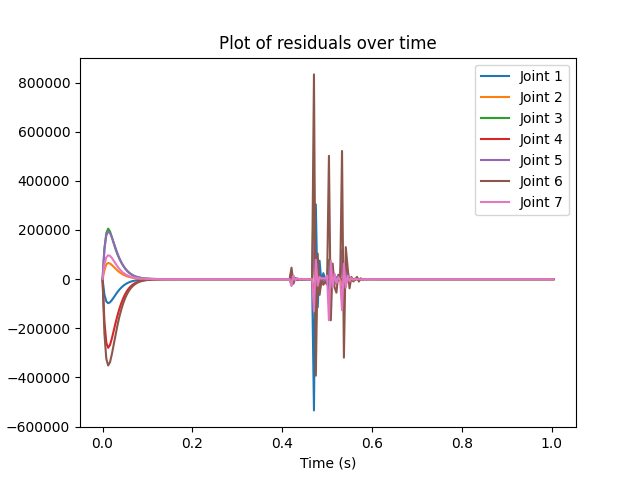
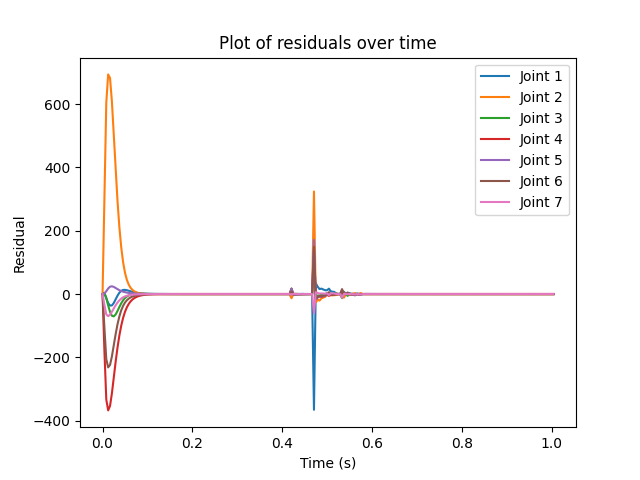
changed gain matrix, fixed coriolis matrix maybe

diff --git a/main.py b/main.py
@@ -1,3 +1,4 @@
+import copy
 import random
 
 import pybullet as p
@@ -53,8 +54,9 @@ def main():
     r_0 = None
     previous_velocities = None
 
-    gain_values = [1.0, 0.5, 0.8, 1.0, 0.5, 0.8, 1.0]
+    gain_values = [0.01] * 7
     gain_matrix = np.diag(gain_values)
+    print(gain_matrix)
 
     residuals = []
     time_steps = []
@@ -76,8 +78,10 @@ def main():
         joint_names = []
         joint_types = []
         joint_indexes = []
+        joint_velocities_3D = []
 
         for joint_index in range(num_joints):
+            link_state = p.getLinkState(robot, joint_index, computeLinkVelocity=1, computeForwardKinematics=1)
             joint_state = p.getJointState(robot, joint_index)
             joint_info = p.getJointInfo(robot, joint_index)
 
@@ -91,18 +95,21 @@ def main():
 
             j_velocity = joint_state[1]
             j_position = joint_state[0]
+            j_velocity_3D = link_state[6]
 
             joint_positions.append(j_position)
             joint_velocities.append(j_velocity)
             joint_names.append(j_name)
             joint_indexes.append(j_index)
             joint_types.append(j_type)
+            joint_velocities_3D.append(j_velocity_3D)
 
         # print(joint_positions)
         # print(joint_velocities)
         # print(joint_names)
         # print(joint_types)
         # print(joint_indexes)
+        print(joint_velocities_3D)
 
         ################################################################
 
@@ -140,18 +147,12 @@ def main():
         # print(f"Joint accelerations: {joint_accelerations}")
 
         #################################################################
-        # TODO: CHECK IF THIS WORKS
-        C = compute_coriolis_matrix_v2(joint_positions, joint_velocities, joint_accelerations, robot)
+        C = compute_coriolis_matrix(robot, joint_positions, joint_velocities, joint_accelerations)
 
         # print(f"Coriolis Matrix: {C}")
         # print(f"Coriolis matrix shape: {C.shape}")
 
         #################################################################
-
-        gravity_matrix = calculateGravityMatrix(robot, joint_positions, joint_velocities, joint_accelerations)
-
-        # print(f"Gravity matrix: {gravity_matrix}")
-        # print(f"Gravity matrix shape: {gravity_matrix.shape}")
 
         if i == 100:
             # Retrieve the link positions and orientations
@@ -188,13 +189,13 @@ def main():
 
         ##################### Algorithm ################################
 
-        tau = np.dot(inertia_matrix, joint_accelerations) + np.dot(C, joint_velocities) + gravity_matrix
+        tau = np.dot(inertia_matrix, joint_accelerations) + np.dot(C, joint_velocities)
 
         # print(f"Torque: {tau}")
 
         last_residual = residuals[-1]
 
-        integral_sum = tau + np.dot(np.transpose(C), joint_velocities) - gravity_matrix + np.array(last_residual)
+        integral_sum = tau + np.dot(np.transpose(C), joint_velocities) + np.array(last_residual)
         integral = integral_sum * current_time
 
         final_sum = p_t - integral - p_0
@@ -240,70 +241,41 @@ def main():
     p.disconnect()
 
 
-def calculateInvDynamics(joint_positions, joint_velocities, joint_accelerations, robot_id):
-    num_joints = len(joint_positions)
-    joint_forces = np.zeros(num_joints)
+def compute_coriolis_matrix(robot, joint_positions, joint_velocities, joint_accelerations):
 
-    for i in range(num_joints):
-        joint_position = joint_positions[i]
-        joint_velocity = joint_velocities[i]
-        joint_acceleration = joint_accelerations[i]
-
-        joint_info = p.getJointInfo(robot_id, i)
-        joint_mass = joint_info[10]  # Index 10 corresponds to the joint mass
-        joint_inertia = joint_info[11]  # Index 11 corresponds to the joint inertia
-
-        # Compute Coriolis and centrifugal forces (set to zero in this example)
-        coriolis_centrifugal = 0.0
-
-        # Compute gravitational forces
-        gravitational_force = joint_mass * 9.8 * np.sin(joint_position)
-
-        # Compute joint forces using Newton-Euler dynamics equations
-        joint_forces[i] = joint_inertia * joint_acceleration + coriolis_centrifugal + gravitational_force
-
-    return joint_forces
-
-
-def compute_coriolis_matrix_v2(joint_positions, joint_velocities, joint_accelerations, robot):
-    # Demux the input variable
-    # q = qdq[:len(qdq)//2]
-    # dq = qdq[len(qdq)//2:]
-
-    # Calculation of the Coriolis matrix using the method by Corke
     N = len(joint_positions)
-    C = np.zeros((N, N))
-    Csq = np.zeros((N, N))
 
-    for j in range(N):
+    C = np.zeros(shape=(N, N))
+
+    Csq = copy.copy(C)
+
+    for i in range(N):
+
         QD = np.zeros(N)
-        QD[j] = 1
-        tau = calculateInvDynamics(joint_positions, joint_velocities, joint_accelerations, robot)
-        Csq[:, j] = Csq[:, j] + tau
+        QD[i] = 1
+
+        tau = p.calculateInverseDynamics(robot, list(joint_positions), list(joint_velocities),
+                                         list(joint_accelerations))
+        tau = np.array(tau)
+
+        Csq[:, i] = Csq[:, i] + np.transpose(tau)
 
     for j in range(N):
         for k in range(j + 1, N):
+
             QD = np.zeros(N)
             QD[j] = 1
             QD[k] = 1
-            tau = calculateInvDynamics(joint_positions, joint_velocities, joint_accelerations, robot)
-            C[:, k] = C[:, k] + (tau - Csq[:, k] - Csq[:, j]) * joint_velocities[j]
 
-    C = C + np.dot(Csq, np.diag(joint_velocities))
+            tau = p.calculateInverseDynamics(robot, list(joint_positions), list(joint_velocities),
+                                             list(joint_accelerations))
+            tau = np.array(tau)
 
-    return C
+            product_term = np.transpose(tau) - Csq[:, k] - Csq[:, j]
 
+            C[:, k] = C[:, k] + np.dot(product_term, joint_velocities[j])
 
-def calculateGravityMatrix(robot, joint_positions, joint_velocities, joint_accelerations):
-    num_joints = p.getNumJoints(robot)
-    # joint_velocities = [0.0] * num_joints  # Zero joint velocities
-    # joint_accelerations = [0.0] * num_joints  # Zero joint accelerations
-
-    joint_forces = calculateInvDynamics(joint_positions, joint_velocities, joint_accelerations, robot)
-
-    gravity_matrix = np.array(joint_forces)
-
-    return gravity_matrix
+    return C + Csq + np.diag(joint_velocities)
 
 
 def plot_graph(title, figure_name, variable_name, variables, time_steps):
